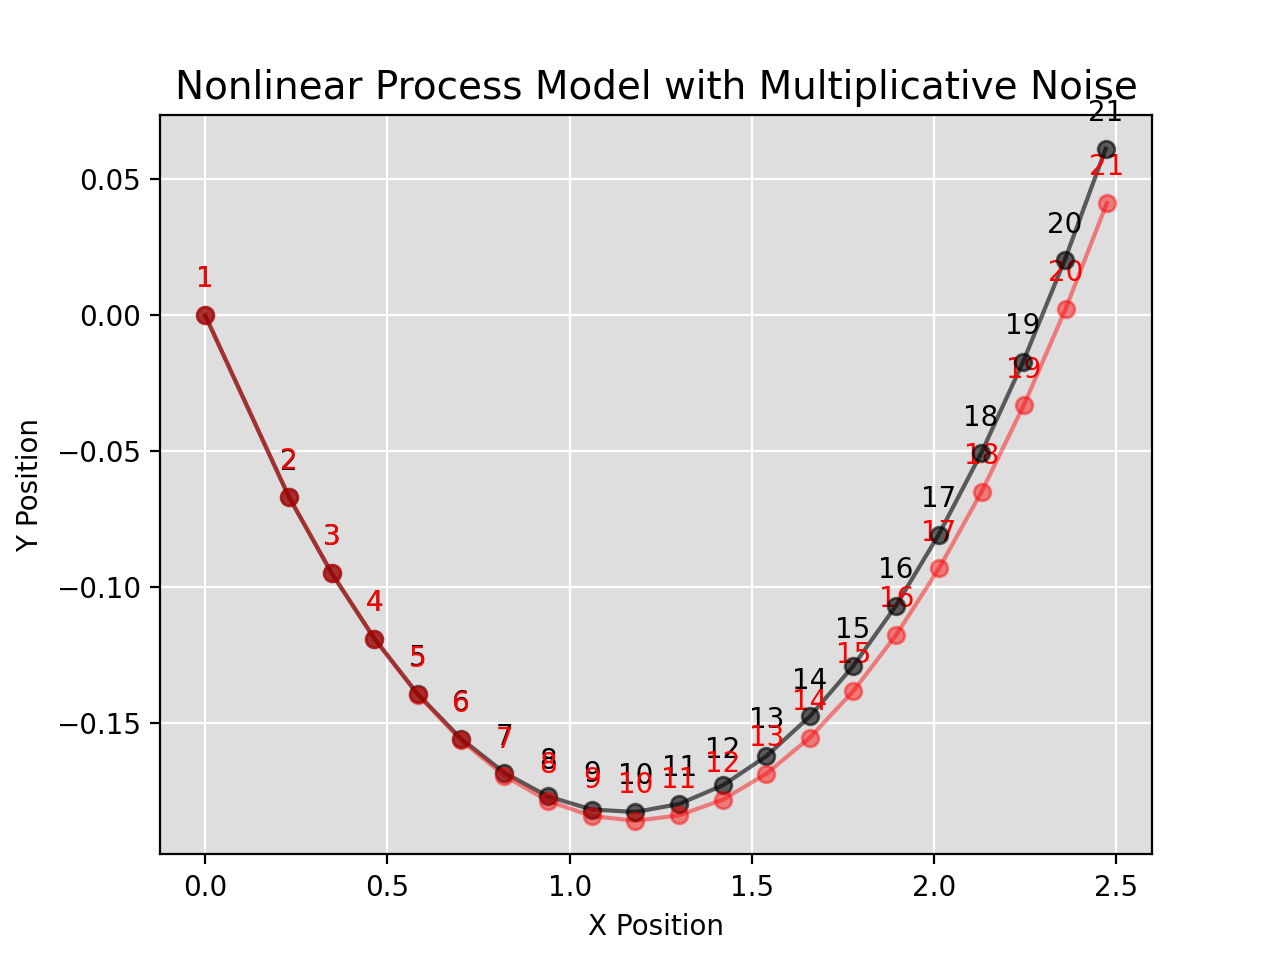
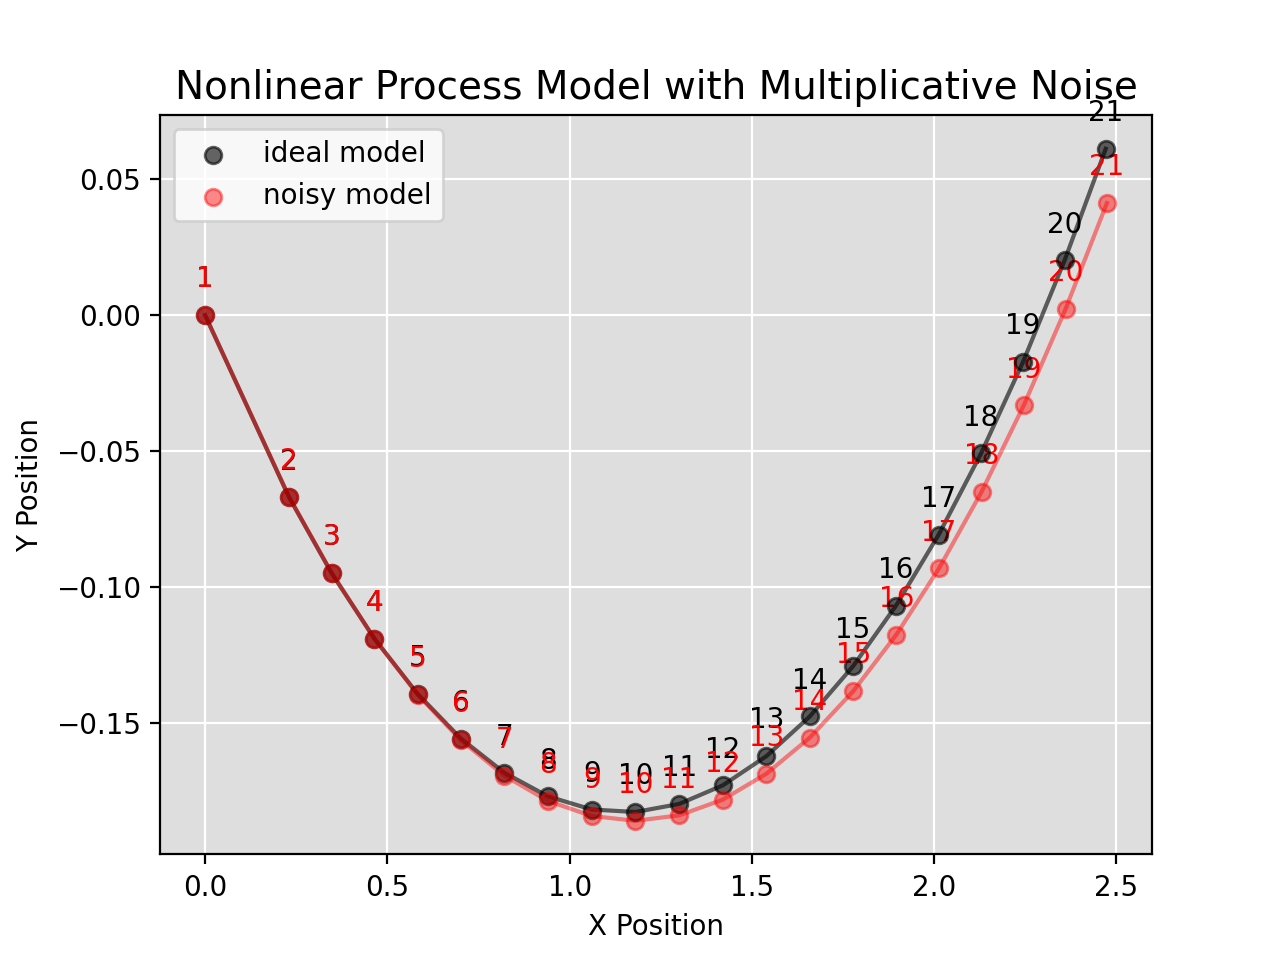
added legend

Changed region(s): [[0.125, 0.125, 0.3438, 0.25]]

diff --git a/README.md b/README.md
@@ -4,10 +4,10 @@
 <table>
   <tr>
     <td>
-      <img src="./doc/ekf.gif" width="380" height="285" style="border-radius: 10px; box-shadow: 0 0 10px rgba(0, 0, 0, 0.2);">
+      <img src="./doc/ekf.gif" width="390" height="292" style="border-radius: 10px; box-shadow: 0 0 10px rgba(0, 0, 0, 0.2);">
     </td>
     <td>
-      <img src="./doc/noise.png" width="380" height="285" style="border-radius: 10px; box-shadow: 0 0 10px rgba(0, 0, 0, 0.2);">
+      <img src="./doc/noise.png" width="390" height="292" style="border-radius: 10px; box-shadow: 0 0 10px rgba(0, 0, 0, 0.2);">
     </td>
   </tr>
 </table>
